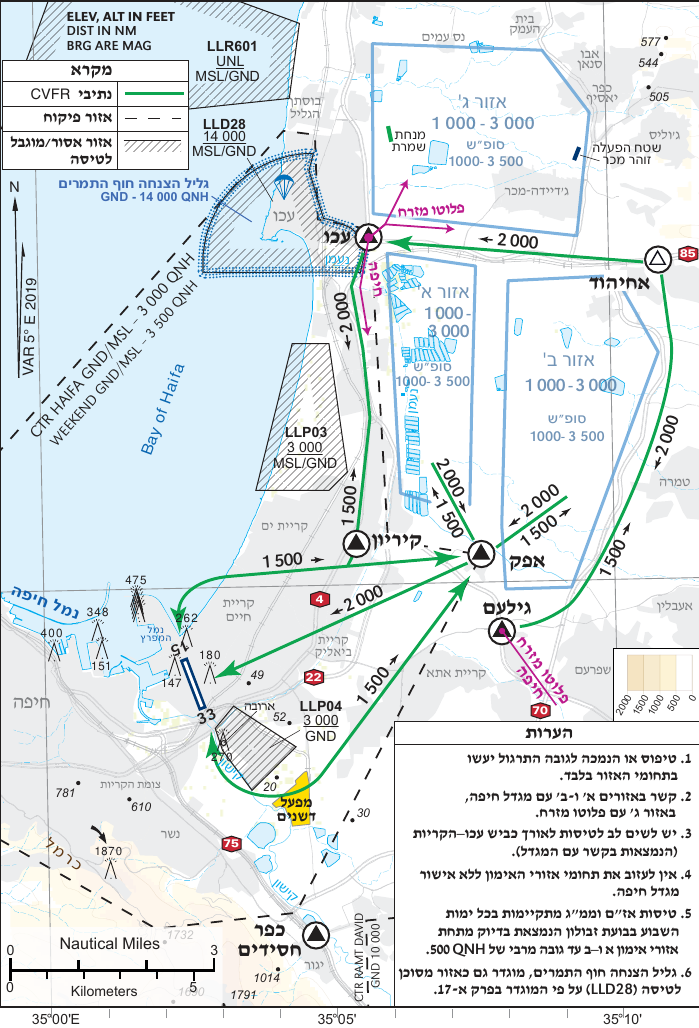
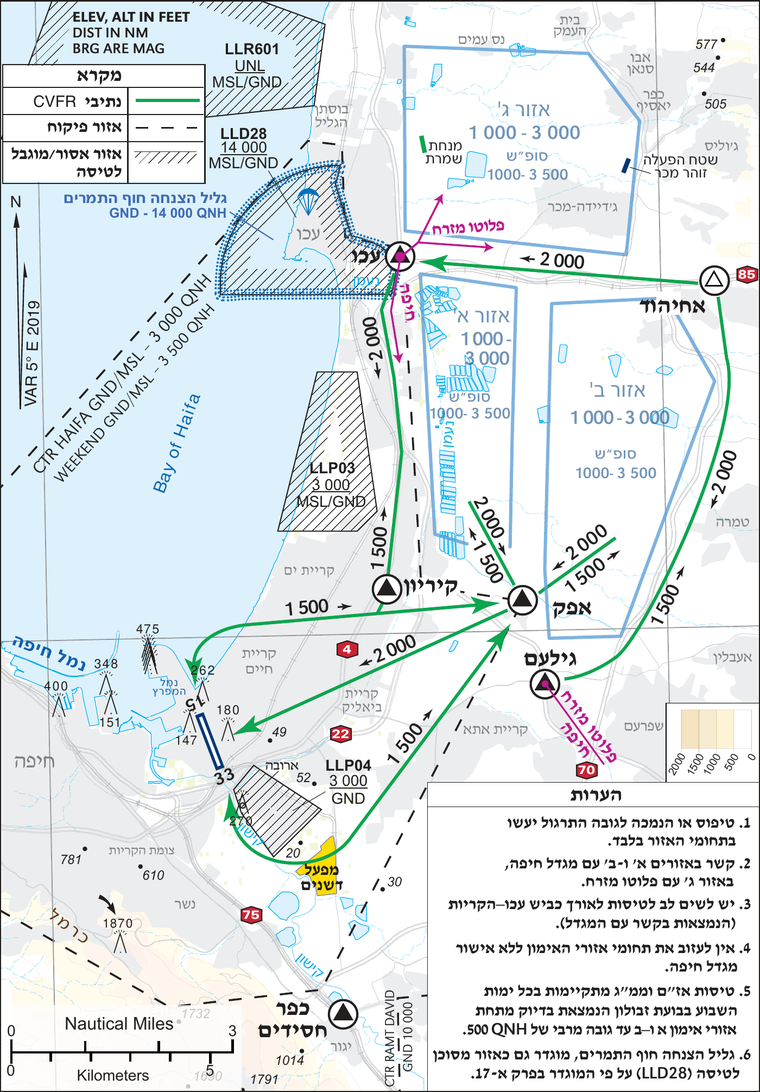
fix(layers): ten more plates laid down the way they were drawn
Continuing the audit. Every plate with a readable graticule turns out to be
drawn off north by half a degree to one and a third, so every overlay built as a
north-up box is a little rotated and a little displaced. Ten more are rebuilt
from their own graticules: an affine fit over every labelled meridian and
parallel gives the corners, and the sheet is cropped to the neat-line the fit is
expressed in.

  LLBO circuit  +0.94°    LLHA training +1.05°    LLKZ circuit  +0.59°
  LLBS circuit  +0.90°    LLHA commfail +1.00°    LLMG cvfr     +1.18°
  LLFK cvfr     +1.32°    LLHZ training +0.91°    LLRS circuit  +0.96°
                          LLHZ commfail +1.03°

Each is checked two ways before it is accepted: the ratio of the fitted scales
must match cos(latitude) to within 0.02 — that is what says the sheet is
conformal and a linear fit is the right model — and the airfield's own ARP must
land inside the sheet, which was then confirmed by eye against the runway on
every one.

Two of them were built from the WRONG PLATE, which only became visible now that
the designations are in place: Haifa's comm-failure overlay was rendered from
נספח ד' (low-level entry/exit) instead of נספח ח' (הצטרפות בתקלת קשר), and
Herzliya's from נספח ח' (ATS exit) instead of נספח יג'. Both now come from the
plate whose designation says it is the comm-failure joining chart.

The frame detector takes the neat-line that ENCLOSES the graticule rather than
[…]

diff --git a/tests/overlay-align.spec.js b/tests/overlay-align.spec.js
@@ -57,7 +57,10 @@ test('selecting an overlay and panning saves a shifted rect override', async ({ 
     // select LLHZ training by clicking its centre
     const af = airfields.find(a => a.name === 'LLHZ');
     const to = af.training_overlay;
-    const c = [(to.sw[0] + to.ne[0]) / 2, (to.sw[1] + to.ne[1]) / 2];
+    // Either shape: a plate drawn off north carries rotated corners instead of a box.
+    const c = to.tl
+      ? [(to.tl[0] + to.bl[0]) / 2, (to.tl[1] + to.tr[1]) / 2]
+      : [(to.sw[0] + to.ne[0]) / 2, (to.sw[1] + to.ne[1]) / 2];
     map.setView(c, 10);
     map.fire('click', { latlng: L.latLng(c[0], c[1]),
                         originalEvent: { target: document.body } });
@@ -80,10 +83,15 @@ test('selecting an overlay and panning saves a shifted rect override', async ({ 
   expect(out.sel).toContain('LLHZ_training.png');
   expect(out.hadCtr).toBe(true);
   expect(out.ov).toBeTruthy();
-  expect(out.ov.sw).toBeTruthy();
-  // centre moved +0.03 lat / +0.02 lng
-  const newCenterLat = (out.ov.sw[0] + out.ov.ne[0]) / 2;
-  const newCenterLng = (out.ov.sw[1] + out.ov.ne[1]) / 2;
+  // The saved override keeps the overlay's own shape: a plate drawn off north stays rotated
+  // (tl/tr/bl) instead of being flattened into a box by a nudge.
+  expect(out.ov.sw || out.ov.tl).toBeTruthy();
+  const newCenterLat = out.ov.tl
+    ? (out.ov.tl[0] + out.ov.tr[0] + out.ov.bl[0] + (out.ov.tr[0] + out.ov.bl[0] - out.ov.tl[0])) / 4
+    : (out.ov.sw[0] + out.ov.ne[0]) / 2;
+  const newCenterLng = out.ov.tl
+    ? (out.ov.tl[1] + out.ov.tr[1] + out.ov.bl[1] + (out.ov.tr[1] + out.ov.bl[1] - out.ov.tl[1])) / 4
+    : (out.ov.sw[1] + out.ov.ne[1]) / 2;
   expect(newCenterLat).toBeCloseTo(out.baseCenter[0] + 0.03, 2);
   expect(newCenterLng).toBeCloseTo(out.baseCenter[1] + 0.02, 2);
 });

diff --git a/tests/plate-overlays.spec.js b/tests/plate-overlays.spec.js
@@ -84,7 +84,8 @@ test('the shared plate-opacity slider drives whichever plate is showing', async 
     const slider = document.getElementById('plate-opacity');
     slider.value = '0.3';
     slider.dispatchEvent(new Event('input'));
-    const img = document.querySelector('.leaflet-overlay-pane img.leaflet-image-layer');
+    // A rotated overlay wraps its <img> in a div and Leaflet sets the opacity there.
+    const img = document.querySelector('.leaflet-overlay-pane .leaflet-image-layer');
     return { opacity: parseFloat(img.style.opacity), label: document.getElementById('plate-opacity-val').textContent };
   });
   expect(result.opacity).toBeCloseTo(0.3, 2);
@@ -94,7 +95,8 @@ test('the shared plate-opacity slider drives whichever plate is showing', async 
   const afterSwitch = await page.evaluate(() => {
     document.getElementById('heli-cb').checked = true;
     document.getElementById('heli-cb').dispatchEvent(new Event('change', { bubbles: true }));
-    const img = document.querySelector('.leaflet-overlay-pane img.leaflet-image-layer');
+    // A rotated overlay wraps its <img> in a div and Leaflet sets the opacity there.
+    const img = document.querySelector('.leaflet-overlay-pane .leaflet-image-layer');
     return img ? parseFloat(img.style.opacity) : null;
   });
   expect(afterSwitch).toBeCloseTo(0.3, 2);

diff --git a/tests/airfields-dataset.spec.js b/tests/airfields-dataset.spec.js
@@ -400,14 +400,19 @@ test.describe('training_overlay field', () => {
       if (!to) continue;
       expect(typeof to.png, `${af.name} training png`).toBe('string');
       expect(to.png).toMatch(/^[A-Z]{4}_training\.png$/);
-      expect(Array.isArray(to.sw) && to.sw.length === 2).toBe(true);
-      expect(Array.isArray(to.ne) && to.ne.length === 2).toBe(true);
-      expect(to.sw[0]).toBeLessThan(to.ne[0]);     // sw lat < ne lat
-      expect(to.sw[1]).toBeLessThan(to.ne[1]);     // sw lng < ne lng
-      expect(to.sw[0]).toBeGreaterThan(29);
-      expect(to.ne[0]).toBeLessThan(34);
-      expect(to.sw[1]).toBeGreaterThan(34);
-      expect(to.ne[1]).toBeLessThan(36);
+      const { sw, ne, rotated } = overlayCorners(to);
+      if (rotated) {
+        for (const c of [to.tl, to.tr, to.bl]) expect(Array.isArray(c) && c.length === 2).toBe(true);
+      } else {
+        expect(Array.isArray(to.sw) && to.sw.length === 2).toBe(true);
+        expect(Array.isArray(to.ne) && to.ne.length === 2).toBe(true);
+      }
+      expect(sw[0]).toBeLessThan(ne[0]);
+      expect(sw[1]).toBeLessThan(ne[1]);
+      expect(sw[0]).toBeGreaterThan(29);
+      expect(ne[0]).toBeLessThan(34);
+      expect(sw[1]).toBeGreaterThan(34);
+      expect(ne[1]).toBeLessThan(36);
     }
   });
 

diff --git a/tests/circuit-overlay.spec.js b/tests/circuit-overlay.spec.js
@@ -74,7 +74,7 @@ test('opacity slider drives overlay opacity', async ({ page }) => {
     // Read the applied opacity off the Leaflet layer's element — works for both
     // axis-aligned (<img>) and rotated (<div>, from L.ImageOverlay.Rotated).
     let opacity = null;
-    circuitLayerGroup.eachLayer(l => { if (opacity === null) opacity = parseFloat(l._image.style.opacity); });
+    circuitLayerGroup.eachLayer(l => { if (opacity === null) opacity = parseFloat((l._image.style.opacity || (l._image.parentNode && l._image.parentNode.style.opacity))); });
     return { opacity, label: valEl.textContent };
   });
   expect(result.opacity).toBeCloseTo(0.3, 2);
@@ -92,7 +92,7 @@ test('opacity reset restores the tuned default', async ({ page }) => {
     slider.dispatchEvent(new Event('input'));
     document.getElementById('plate-opacity-reset').click();
     let opacity = null;
-    circuitLayerGroup.eachLayer(l => { if (opacity === null) opacity = parseFloat(l._image.style.opacity); });
+    circuitLayerGroup.eachLayer(l => { if (opacity === null) opacity = parseFloat((l._image.style.opacity || (l._image.parentNode && l._image.parentNode.style.opacity))); });
     return {
       sliderVal: slider.value,
       opacity,

diff --git a/tests/commfail-overlay.spec.js b/tests/commfail-overlay.spec.js
@@ -71,7 +71,8 @@ test('opacity slider drives overlay opacity', async ({ page }) => {
     const valEl  = document.getElementById('plate-opacity-val');
     slider.value = '0.3';
     slider.dispatchEvent(new Event('input'));
-    const img = document.querySelector('.leaflet-overlay-pane img.leaflet-image-layer');
+    // A rotated overlay wraps its <img> in a div and Leaflet sets the opacity there.
+    const img = document.querySelector('.leaflet-overlay-pane .leaflet-image-layer');
     return {
       opacity: parseFloat(img.style.opacity),
       label: valEl.textContent,
@@ -91,7 +92,8 @@ test('opacity reset restores the tuned default', async ({ page }) => {
     slider.value = '0.3';
     slider.dispatchEvent(new Event('input'));
     document.getElementById('plate-opacity-reset').click();
-    const img = document.querySelector('.leaflet-overlay-pane img.leaflet-image-layer');
+    // A rotated overlay wraps its <img> in a div and Leaflet sets the opacity there.
+    const img = document.querySelector('.leaflet-overlay-pane .leaflet-image-layer');
     return {
       sliderVal: slider.value,
       opacity: parseFloat(img.style.opacity),

diff --git a/tests/cvfr-overlay.spec.js b/tests/cvfr-overlay.spec.js
@@ -71,7 +71,8 @@ test('opacity slider drives overlay opacity', async ({ page }) => {
     const valEl  = document.getElementById('plate-opacity-val');
     slider.value = '0.3';
     slider.dispatchEvent(new Event('input'));
-    const img = document.querySelector('.leaflet-overlay-pane img.leaflet-image-layer');
+    // A rotated overlay wraps its <img> in a div and Leaflet sets the opacity there.
+    const img = document.querySelector('.leaflet-overlay-pane .leaflet-image-layer');
     return {
       opacity: parseFloat(img.style.opacity),
       label: valEl.textContent,
@@ -91,7 +92,8 @@ test('opacity reset restores the tuned default', async ({ page }) => {
     slider.value = '0.3';
     slider.dispatchEvent(new Event('input'));
     document.getElementById('plate-opacity-reset').click();
-    const img = document.querySelector('.leaflet-overlay-pane img.leaflet-image-layer');
+    // A rotated overlay wraps its <img> in a div and Leaflet sets the opacity there.
+    const img = document.querySelector('.leaflet-overlay-pane .leaflet-image-layer');
     return {
       sliderVal: slider.value,
       opacity: parseFloat(img.style.opacity),

diff --git a/tests/heli-overlay.spec.js b/tests/heli-overlay.spec.js
@@ -71,7 +71,8 @@ test('opacity slider drives overlay opacity', async ({ page }) => {
     const valEl  = document.getElementById('plate-opacity-val');
     slider.value = '0.3';
     slider.dispatchEvent(new Event('input'));
-    const img = document.querySelector('.leaflet-overlay-pane img.leaflet-image-layer');
+    // A rotated overlay wraps its <img> in a div and Leaflet sets the opacity there.
+    const img = document.querySelector('.leaflet-overlay-pane .leaflet-image-layer');
     return {
       opacity: parseFloat(img.style.opacity),
       label: valEl.textContent,
@@ -91,7 +92,8 @@ test('opacity reset restores the tuned default', async ({ page }) => {
     slider.value = '0.3';
     slider.dispatchEvent(new Event('input'));
     document.getElementById('plate-opacity-reset').click();
-    const img = document.querySelector('.leaflet-overlay-pane img.leaflet-image-layer');
+    // A rotated overlay wraps its <img> in a div and Leaflet sets the opacity there.
+    const img = document.querySelector('.leaflet-overlay-pane .leaflet-image-layer');
     return {
       sliderVal: slider.value,
       opacity: parseFloat(img.style.opacity),

diff --git a/tests/training-overlay.spec.js b/tests/training-overlay.spec.js
@@ -71,7 +71,8 @@ test('opacity slider drives overlay opacity', async ({ page }) => {
     const valEl  = document.getElementById('plate-opacity-val');
     slider.value = '0.3';
     slider.dispatchEvent(new Event('input'));
-    const img = document.querySelector('.leaflet-overlay-pane img.leaflet-image-layer');
+    // A rotated overlay wraps its <img> in a div and Leaflet sets the opacity there.
+    const img = document.querySelector('.leaflet-overlay-pane .leaflet-image-layer');
     return {
       opacity: parseFloat(img.style.opacity),
       label: valEl.textContent,
@@ -91,7 +92,8 @@ test('opacity reset restores the tuned default', async ({ page }) => {
     slider.value = '0.3';
     slider.dispatchEvent(new Event('input'));
     document.getElementById('plate-opacity-reset').click();
-    const img = document.querySelector('.leaflet-overlay-pane img.leaflet-image-layer');
+    // A rotated overlay wraps its <img> in a div and Leaflet sets the opacity there.
+    const img = document.querySelector('.leaflet-overlay-pane .leaflet-image-layer');
     return {
       sliderVal: slider.value,
       opacity: parseFloat(img.style.opacity),

diff --git a/docs/app/core.js b/docs/app/core.js
@@ -986,7 +986,7 @@ window.S = Object.assign({
   // the ?v= cache-busts all three kinds, which now come from the same file.
   routeGraphUrl: 'data/cvfr-route-graph.json?v=2',  // resolved relative to index.html (docs/)
   navWpSearchField: 'en',              // which locale label to show/search in results
-  airfieldsUrl: 'data/airfields.json?v=36',  // resolved relative to index.html (docs/)
+  airfieldsUrl: 'data/airfields.json?v=37',  // resolved relative to index.html (docs/)
   airfieldLabelField: 'en',            // which locale label to show on the overlay
   routeTemplatesUrl: 'data/route-templates.json?v=2', // ready-made route templates
   vorUrl: 'data/vor.json?v=2',              // Israeli VOR/DME stations (#404 follow-up)
